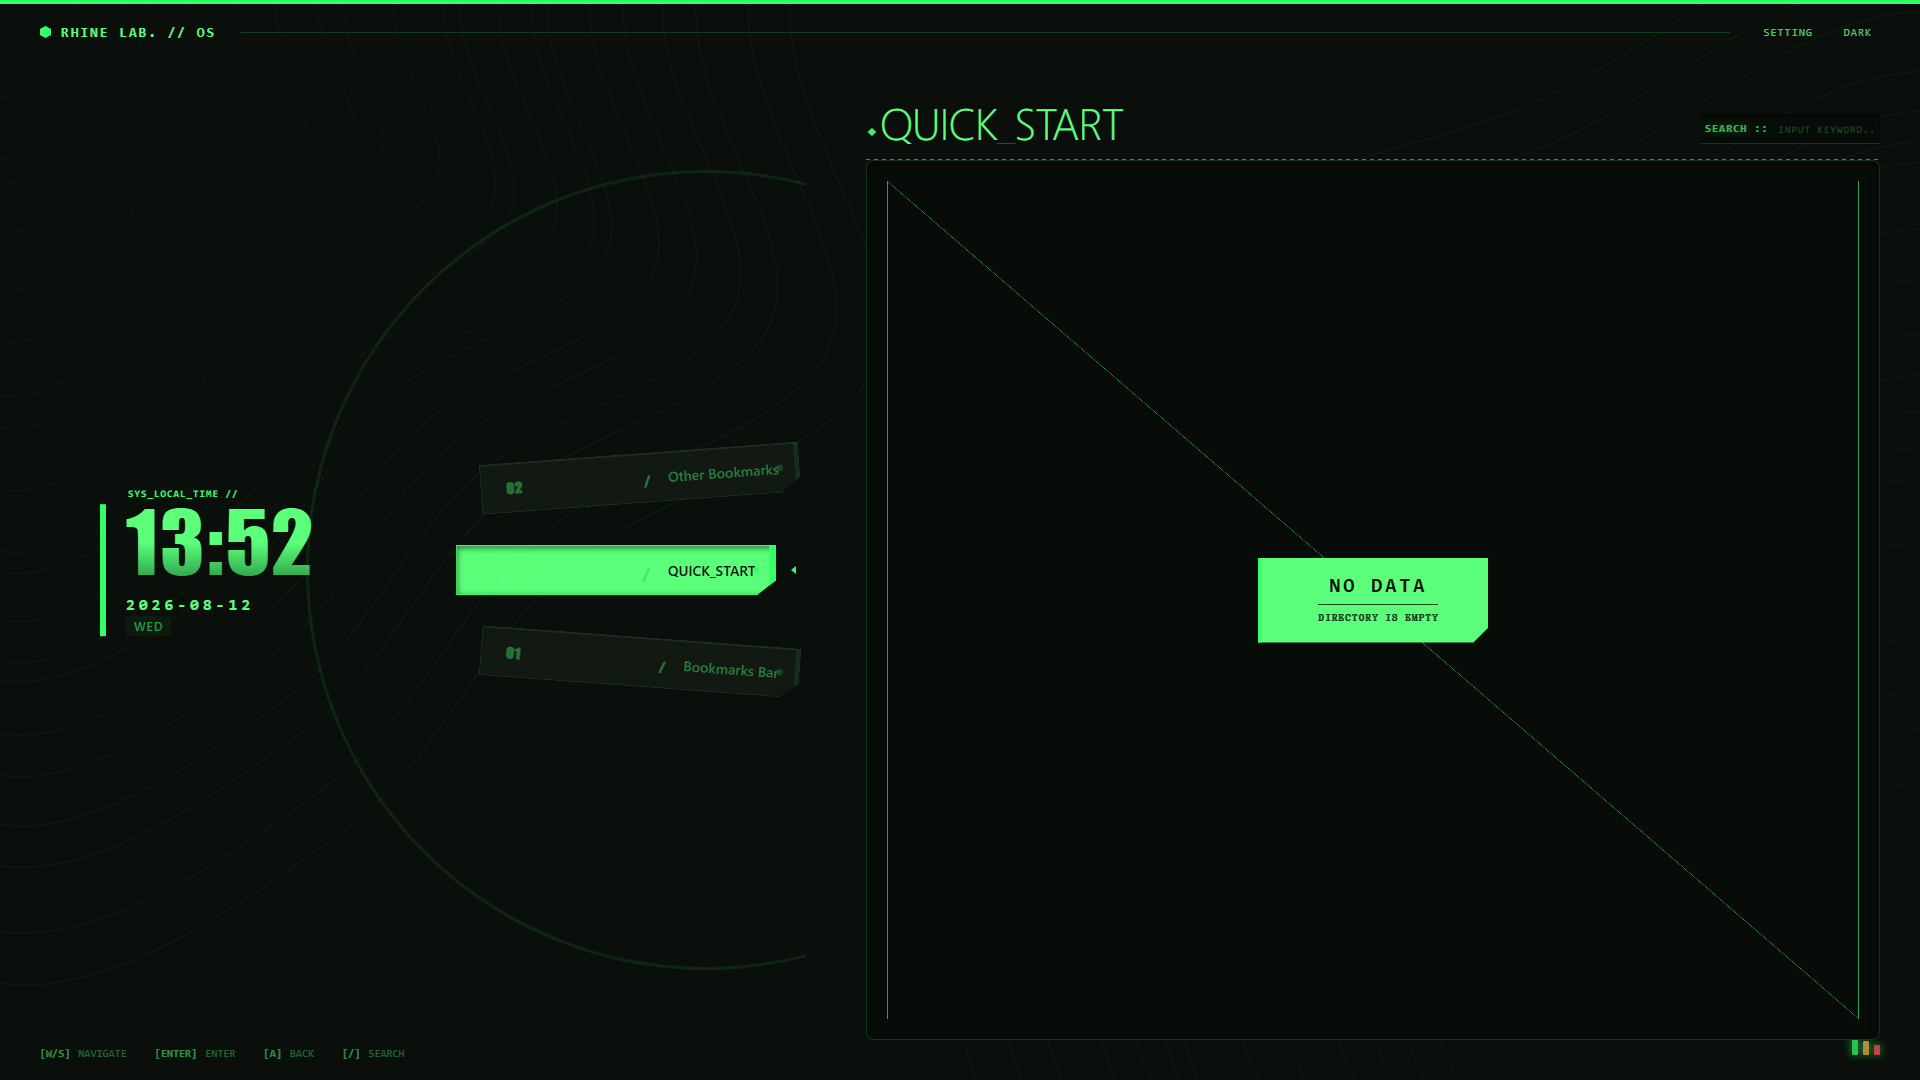
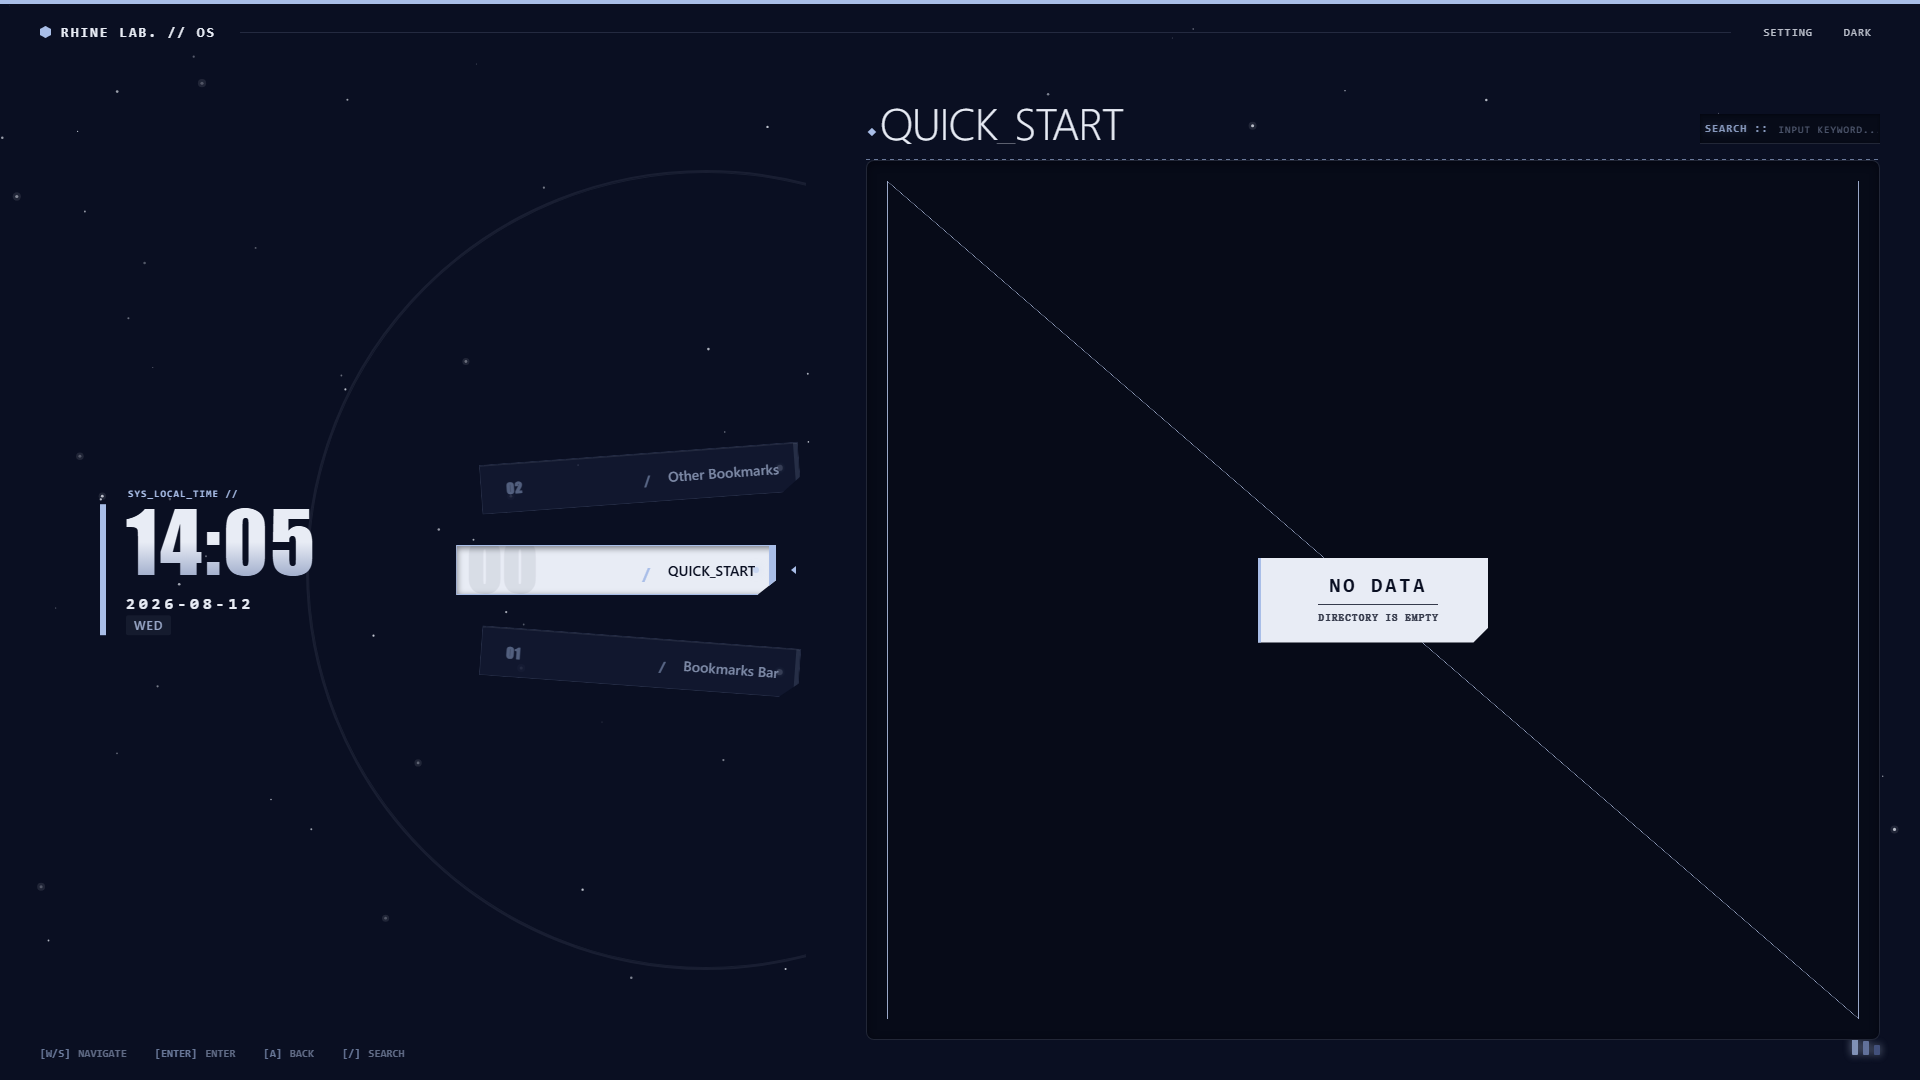
feat(ui): dark theme becomes starry night (night-blue/silver palette + JS starfield)
- variables.css dark block: deep navy #0A0F22 bg, silver-white text #E8ECF5, moon-silver accent #A9BEE8, silver-blue borders/shadows/VU ladder; CRT green fully removed; new --star-color token
- background.js: initBackground branches by data-theme - light keeps contour rings, dark generates random starfield SVG (~130 stars + bright-star halos) using .bg-star class
- events.js: theme toggle calls initBackground() so background regenerates on switch
- base.css: .bg-star fill via --star-color
- light theme untouched; regenerate screenshots (verified toggle switches bg live)

diff --git a/LoneTrail-Tab/css/variables.css b/LoneTrail-Tab/css/variables.css
@@ -61,49 +61,50 @@
 
 [data-theme="dark"] {
     /* =========================================
-       DARK MODE — CRT 黑屏绿字终端
+       DARK MODE — 星空之夜（夜蓝银白）
        ========================================= */
 
-    --bg-color: #0B0F0B;
-    --surface: #141B14;
-    --well: #080C08;
-    --inset: rgba(51, 255, 102, 0.05);
+    --bg-color: #0A0F22;
+    --surface: #131A33;
+    --well: #070B18;
+    --inset: rgba(200, 215, 245, 0.06);
 
-    --text-main: #5CFF7A;                   /* 亮荧光绿 */
-    --text-sub: #2F9E4A;                    /* 暗荧光绿 */
-    --text-inverse: #0B0F0B;
-    --text-on-accent: #0B0F0B;              /* 绿底黑字（方块光标） */
+    --text-main: #E8ECF5;
+    --text-sub: #9AA8C8;
+    --text-inverse: #0A0F22;
+    --text-on-accent: #0A0F22;
     --text-on-danger: #FFFFFF;
 
-    --accent: #33FF66;
-    --accent-text: #46E867;
-    --accent-dim: rgba(51, 255, 102, 0.12);
+    --accent: #A9BEE8;
+    --accent-text: #A9BEE8;
+    --accent-dim: rgba(169, 190, 232, 0.14);
 
-    --danger: #FF5555;
-    --danger-glow: rgba(255, 85, 85, 0.5);
+    --danger: #FF6B7A;
+    --danger-glow: rgba(255, 107, 122, 0.5);
 
-    --border: rgba(51, 255, 102, 0.18);
-    --grid-line: rgba(51, 255, 102, 0.05);
+    --border: rgba(200, 215, 245, 0.14);
+    --grid-line: rgba(200, 215, 245, 0.05);
 
-    --shadow: rgba(0, 0, 0, 0.45);
-    --shadow-soft: rgba(0, 0, 0, 0.25);
-    --overlay: rgba(0, 0, 0, 0.70);
+    --shadow: rgba(0, 0, 10, 0.5);
+    --shadow-soft: rgba(0, 0, 10, 0.3);
+    --overlay: rgba(2, 4, 12, 0.70);
 
     --dial-active-bg: var(--text-main);
-    --dial-idx-active: rgba(51, 255, 102, 0.30);
-    --decoration-ring: rgba(51, 255, 102, 0.10);
+    --dial-idx-active: rgba(10, 15, 34, 0.30);
+    --decoration-ring: rgba(200, 215, 245, 0.08);
 
-    --row-sep: rgba(51, 255, 102, 0.12);
-    --row-active-bg: var(--accent);         /* 方块光标 */
-    --row-active-text: var(--text-on-accent);
+    --row-sep: rgba(200, 215, 245, 0.10);
+    --row-active-bg: var(--accent);
+    --row-active-text: #0A0F22;
 
     /* 磁带机装饰 */
-    --led: #33FF66;
-    --led-glow: rgba(51, 255, 102, 0.8);
+    --led: #C9D7F2;
+    --led-glow: rgba(201, 215, 242, 0.7);
     --key-highlight: rgba(255, 255, 255, 0.10);
-    --key-shadow: rgba(0, 0, 0, 0.55);
-    --phosphor-glow: rgba(51, 255, 102, 0.55);
-    --vu-1: #33FF66;
-    --vu-2: #E9B949;
-    --vu-3: #FF5555;
+    --key-shadow: rgba(0, 0, 10, 0.5);
+    --phosphor-glow: rgba(169, 190, 232, 0.40);
+    --vu-1: #A9BEE8;
+    --vu-2: #7F93C4;
+    --vu-3: #56679A;
+    --star-color: #E8ECF5;
 }

diff --git a/LoneTrail-Tab/js/background.js b/LoneTrail-Tab/js/background.js
@@ -23,15 +23,63 @@ const BG_GROUPS = [
  */
 export function initBackground() {
     const container = getContainer();
-    const svg = createSvgElement();
     const { innerWidth: w, innerHeight: h } = window;
+    const theme = document.documentElement.getAttribute('data-theme');
 
-    BG_GROUPS.forEach((config) => {
-        const groupEl = createRingGroup(config, w, h);
-        svg.appendChild(groupEl);
-    });
+    let svg;
+    if (theme === 'dark') {
+        svg = createStarSvg(w, h);
+    } else {
+        svg = createSvgElement();
+        BG_GROUPS.forEach((config) => {
+            const groupEl = createRingGroup(config, w, h);
+            svg.appendChild(groupEl);
+        });
+    }
 
     mountSvg(svg, container);
+}
+
+/**
+ * Creates a random starfield SVG for the dark night theme
+ * @param {number} w - Viewport width
+ * @param {number} h - Viewport height
+ */
+function createStarSvg(w, h) {
+    const svgNS = 'http://www.w3.org/2000/svg';
+    const svg = createSvgElement();
+    const group = document.createElementNS(svgNS, 'g');
+
+    // ~130 stars at 1920x1080
+    const starCount = Math.round((w * h) / 16000);
+
+    for (let i = 0; i < starCount; i++) {
+        const cx = (Math.random() * w).toFixed(1);
+        const cy = (Math.random() * h).toFixed(1);
+        const radius = 0.4 + Math.random() * 1.2;
+
+        const circle = document.createElementNS(svgNS, 'circle');
+        circle.setAttribute('cx', cx);
+        circle.setAttribute('cy', cy);
+        circle.setAttribute('r', radius.toFixed(2));
+        circle.setAttribute('opacity', (0.25 + Math.random() * 0.6).toFixed(2));
+        circle.classList.add('bg-star');
+        group.appendChild(circle);
+
+        // Bright stars get a soft halo
+        if (radius > 1.35) {
+            const halo = document.createElementNS(svgNS, 'circle');
+            halo.setAttribute('cx', cx);
+            halo.setAttribute('cy', cy);
+            halo.setAttribute('r', (radius * 2.6).toFixed(2));
+            halo.setAttribute('opacity', '0.10');
+            halo.classList.add('bg-star');
+            group.appendChild(halo);
+        }
+    }
+
+    svg.appendChild(group);
+    return svg;
 }
 
 /** Gets or creates the background container */

diff --git a/LoneTrail-Tab/js/events.js b/LoneTrail-Tab/js/events.js
@@ -2,6 +2,7 @@ import { state, saveConfig } from './state.js';
 import { Actions } from './actions.js';
 import { applyTheme } from './utils.js';
 import { fullRender, updateKeyHints } from './render.js';
+import { initBackground } from './background.js';
 
 /** Currently recording key binding button */
 let recordingBtn = null;
@@ -404,6 +405,7 @@ function initThemeSwitcher() {
         applyTheme(newTheme);
         saveConfig();
         updateThemeLabel();
+        initBackground();
     };
 
     updateThemeLabel();

diff --git a/LoneTrail-Tab/css/base.css b/LoneTrail-Tab/css/base.css
@@ -64,6 +64,11 @@ body {
     transform-origin: center;
 }
 
+/* 星点（暗色星空背景） */
+.bg-star {
+    fill: var(--star-color);
+}
+
 /* 动效克制：尊重系统减弱动态偏好 */
 @media (prefers-reduced-motion: reduce) {
     *, *::before, *::after {
